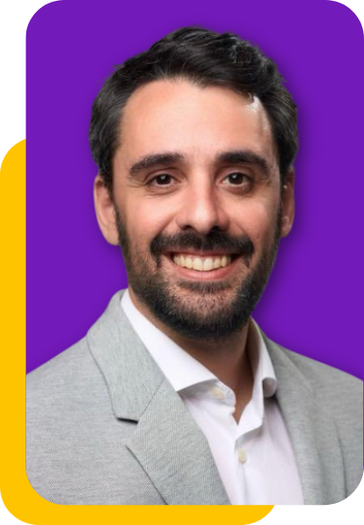
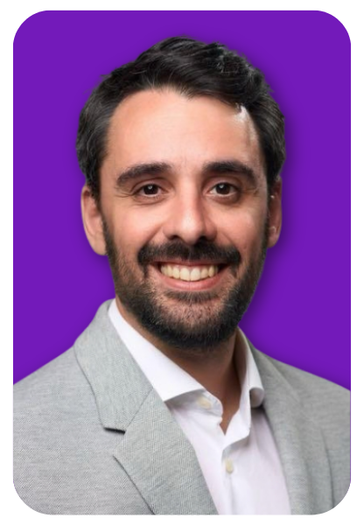
Atualiza fotos dos professores e adiciona retrato dedicado para avatares
O pacote novo trouxe duas fotos por professor: o retrato principal
(cards/modal) e uma "bolinha" recortada em circulo, pensada
especificamente para miniaturas. Adiciona Speaker.avatarUrl para essa
segunda foto, usada nos avatares (grade "Quem vai sentar para prosear"
e cabecalho do SpeakerModal) via object-cover/object-top, mantendo
object-contain/object-bottom no retrato principal do card.

Mapeamento nome-de-arquivo -> professor foi 1:1 direto (mesmos nomes ja
usados em speakers.ts), sem ambiguidade.

Bug real encontrado e corrigido: o preflight do Tailwind aplica
`img { height: auto }`, que sobrescrevia os atributos width/height do
avatar e esticava a "bolinha" para a proporcao da foto (88x127 em vez
de 88x88). Corrigido fixando width/height via style inline, que tem
prioridade sobre a regra do preflight.

Arquivos alterados:
- src/types/index.ts — Speaker ganha avatarUrl.
- src/data/speakers.ts — avatarUrl por professor.
- src/components/Avatar.tsx — object-top; fix do bug de tamanho.
- src/components/SpeakersSection.tsx, SpeakerModal.tsx — usam avatarUrl
  (com fallback para photoUrl) em vez de photoUrl direto.
- public/images/speakers/*.png — retratos principais atualizados;
  *-avatar.png (novos) — recortes dedicados para as bolinhas.

diff --git a/src/data/speakers.ts b/src/data/speakers.ts
@@ -6,6 +6,11 @@ import type { Speaker } from "@/types";
  * propósito, para não publicar uma qualificação profissional inventada para
  * uma pessoa real. Preencha esses três campos assim que a Biodental enviar
  * o currículo de cada professor.
+ *
+ * `photoUrl` é o retrato principal (card/modal); `avatarUrl` é o recorte
+ * redondo dedicado para miniaturas (grade de professores, cabeçalho do
+ * modal) — os dois vêm do mesmo pacote de fotos da Biodental, cada um já
+ * enquadrado para o seu uso.
  */
 export const speakers: Speaker[] = [
   {
@@ -15,6 +20,7 @@ export const speakers: Speaker[] = [
     institution: "Instituição a confirmar",
     bio: "Biografia a ser fornecida pela Biodental.",
     photoUrl: "/images/speakers/anarela-bernardi.png",
+    avatarUrl: "/images/speakers/anarela-bernardi-avatar.png",
   },
   {
     id: "arthur-napoleao",
@@ -23,6 +29,7 @@ export const speakers: Speaker[] = [
     institution: "Instituição a confirmar",
     bio: "Biografia a ser fornecida pela Biodental.",
     photoUrl: "/images/speakers/arthur-napoleao.png",
+    avatarUrl: "/images/speakers/arthur-napoleao-avatar.png",
   },
   {
     id: "danilo-shimanuko",
@@ -31,6 +38,7 @@ export const speakers: Speaker[] = [
     institution: "Instituição a confirmar",
     bio: "Biografia a ser fornecida pela Biodental.",
     photoUrl: "/images/speakers/danilo-shimanuko.png",
+    avatarUrl: "/images/speakers/danilo-shimanuko-avatar.png",
   },
   {
     id: "murilo-borges",
@@ -39,6 +47,7 @@ export const speakers: Speaker[] = [
     institution: "Instituição a confirmar",
     bio: "Biografia a ser fornecida pela Biodental.",
     photoUrl: "/images/speakers/murilo-borges.png",
+    avatarUrl: "/images/speakers/murilo-borges-avatar.png",
   },
   {
     id: "alexandre-bortoloto",
@@ -47,6 +56,7 @@ export const speakers: Speaker[] = [
     institution: "Instituição a confirmar",
     bio: "Biografia a ser fornecida pela Biodental.",
     photoUrl: "/images/speakers/alexandre-bortoloto.png",
+    avatarUrl: "/images/speakers/alexandre-bortoloto-avatar.png",
   },
   {
     id: "aloisio-napoleao",
@@ -55,6 +65,7 @@ export const speakers: Speaker[] = [
     institution: "Instituição a confirmar",
     bio: "Biografia a ser fornecida pela Biodental.",
     photoUrl: "/images/speakers/aloisio-napoleao.png",
+    avatarUrl: "/images/speakers/aloisio-napoleao-avatar.png",
   },
   {
     id: "key-fabiano-souza",
@@ -63,6 +74,7 @@ export const speakers: Speaker[] = [
     institution: "Instituição a confirmar",
     bio: "Biografia a ser fornecida pela Biodental.",
     photoUrl: "/images/speakers/key-fabiano-souza.png",
+    avatarUrl: "/images/speakers/key-fabiano-souza-avatar.png",
   },
   {
     id: "josiane-almeida",
@@ -71,6 +83,7 @@ export const speakers: Speaker[] = [
     institution: "Instituição a confirmar",
     bio: "Biografia a ser fornecida pela Biodental.",
     photoUrl: "/images/speakers/josiane-almeida.png",
+    avatarUrl: "/images/speakers/josiane-almeida-avatar.png",
   },
   {
     id: "eduardo-akisue",
@@ -79,6 +92,7 @@ export const speakers: Speaker[] = [
     institution: "Instituição a confirmar",
     bio: "Biografia a ser fornecida pela Biodental.",
     photoUrl: "/images/speakers/eduardo-akisue.png",
+    avatarUrl: "/images/speakers/eduardo-akisue-avatar.png",
   },
   {
     id: "bruno-bisi",
@@ -87,6 +101,7 @@ export const speakers: Speaker[] = [
     institution: "Instituição a confirmar",
     bio: "Biografia a ser fornecida pela Biodental.",
     photoUrl: "/images/speakers/bruno-bisi.png",
+    avatarUrl: "/images/speakers/bruno-bisi-avatar.png",
   },
 ];
 

diff --git a/src/components/SpeakersSection.tsx b/src/components/SpeakersSection.tsx
@@ -47,7 +47,12 @@ export function SpeakersSection() {
               onClick={() => setActiveSpeakerId(speaker.id)}
               className="flex flex-col items-center rounded-2xl p-3 text-center transition-colors hover:bg-cream"
             >
-              <Avatar name={speaker.name} photoUrl={speaker.photoUrl} size={88} className="text-2xl" />
+              <Avatar
+                name={speaker.name}
+                photoUrl={speaker.avatarUrl ?? speaker.photoUrl}
+                size={88}
+                className="text-2xl"
+              />
               <p className="mt-3 text-sm font-bold text-ink">{speaker.name}</p>
               <p className="mt-0.5 text-xs text-ink/55">{speaker.institution}</p>
               {sessionCount > 0 && (

diff --git a/src/components/SpeakerModal.tsx b/src/components/SpeakerModal.tsx
@@ -18,7 +18,12 @@ export function SpeakerModal({ speaker, sessions, onClose }: SpeakerModalProps) 
     <Modal open={Boolean(speaker)} onClose={onClose} labelledBy="speaker-modal-title" maxWidthClassName="max-w-lg">
       <div className="flex items-start justify-between gap-4">
         <div className="flex items-center gap-4">
-          <Avatar name={speaker.name} photoUrl={speaker.photoUrl} size={64} className="text-xl" />
+          <Avatar
+            name={speaker.name}
+            photoUrl={speaker.avatarUrl ?? speaker.photoUrl}
+            size={64}
+            className="text-xl"
+          />
           <div>
             <h2 id="speaker-modal-title" className="text-lg font-bold text-ink">
               {speaker.name}

diff --git a/src/components/Avatar.tsx b/src/components/Avatar.tsx
@@ -20,7 +20,13 @@ export function Avatar({ name, photoUrl, size = 56, className = "" }: AvatarProp
         alt={name}
         width={size}
         height={size}
-        className={`rounded-full object-cover ${className}`}
+        loading="lazy"
+        decoding="async"
+        // Tailwind's preflight sets `img { height: auto }`, which would
+        // otherwise stretch this box to the photo's own aspect ratio instead
+        // of a perfect circle — the inline style wins over that reset.
+        style={{ width: size, height: size }}
+        className={`shrink-0 rounded-full object-cover object-top ${className}`}
       />
     );
   }

diff --git a/src/types/index.ts b/src/types/index.ts
@@ -34,8 +34,10 @@ export interface Speaker {
   credentials: string;
   institution: string;
   bio: string;
-  /** Path under /public, or null to fall back to the initials placeholder. */
+  /** Main portrait — used in the session card and details modal. Path under /public, or null to fall back to the initials placeholder. */
   photoUrl: string | null;
+  /** Small round-crop portrait for avatars/thumbnails (speakers grid, modal header). Falls back to `photoUrl`, then to initials. */
+  avatarUrl: string | null;
   /** Marks entries that must be replaced with official data before launch. */
   isPlaceholder?: boolean;
 }
